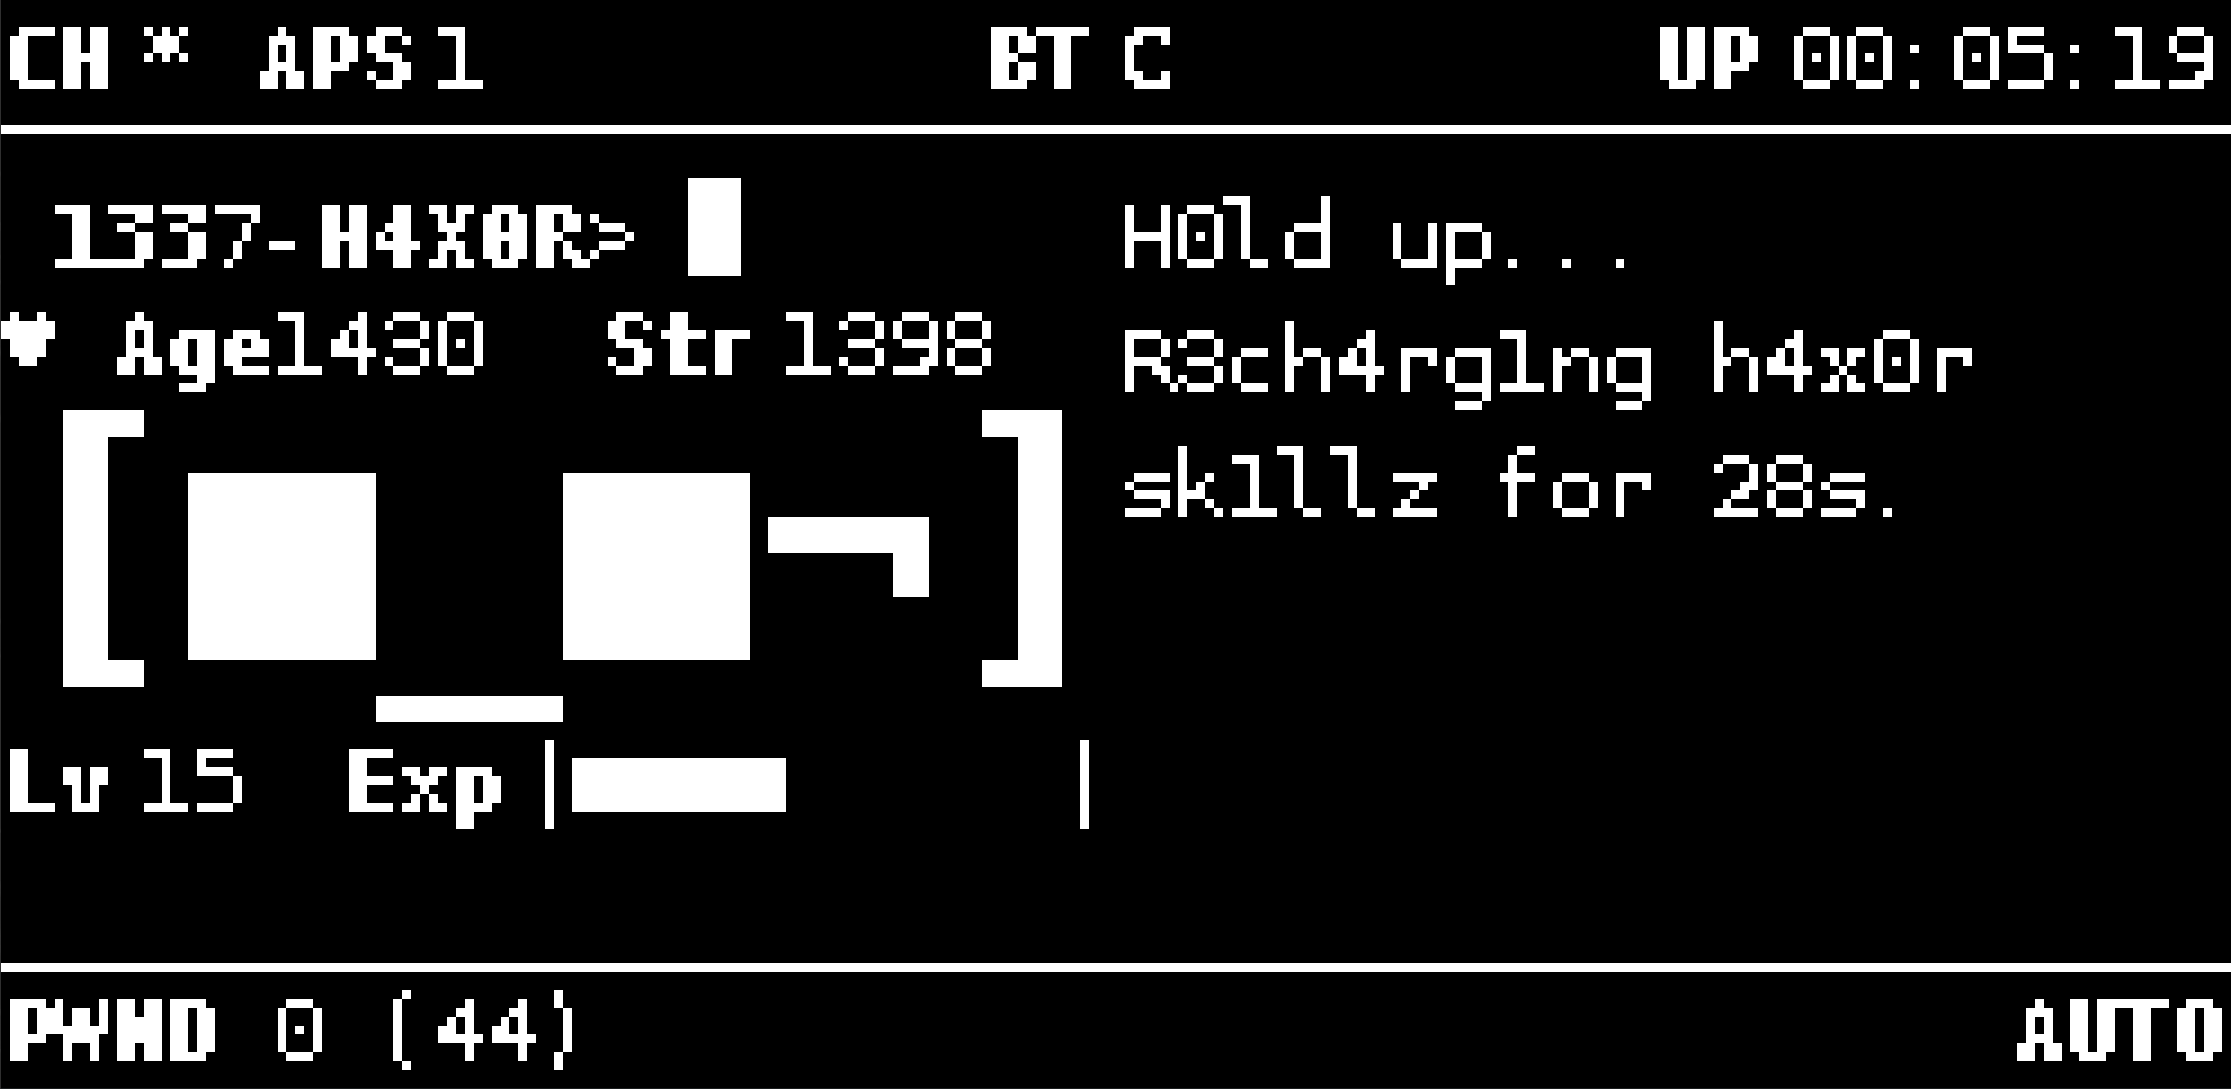
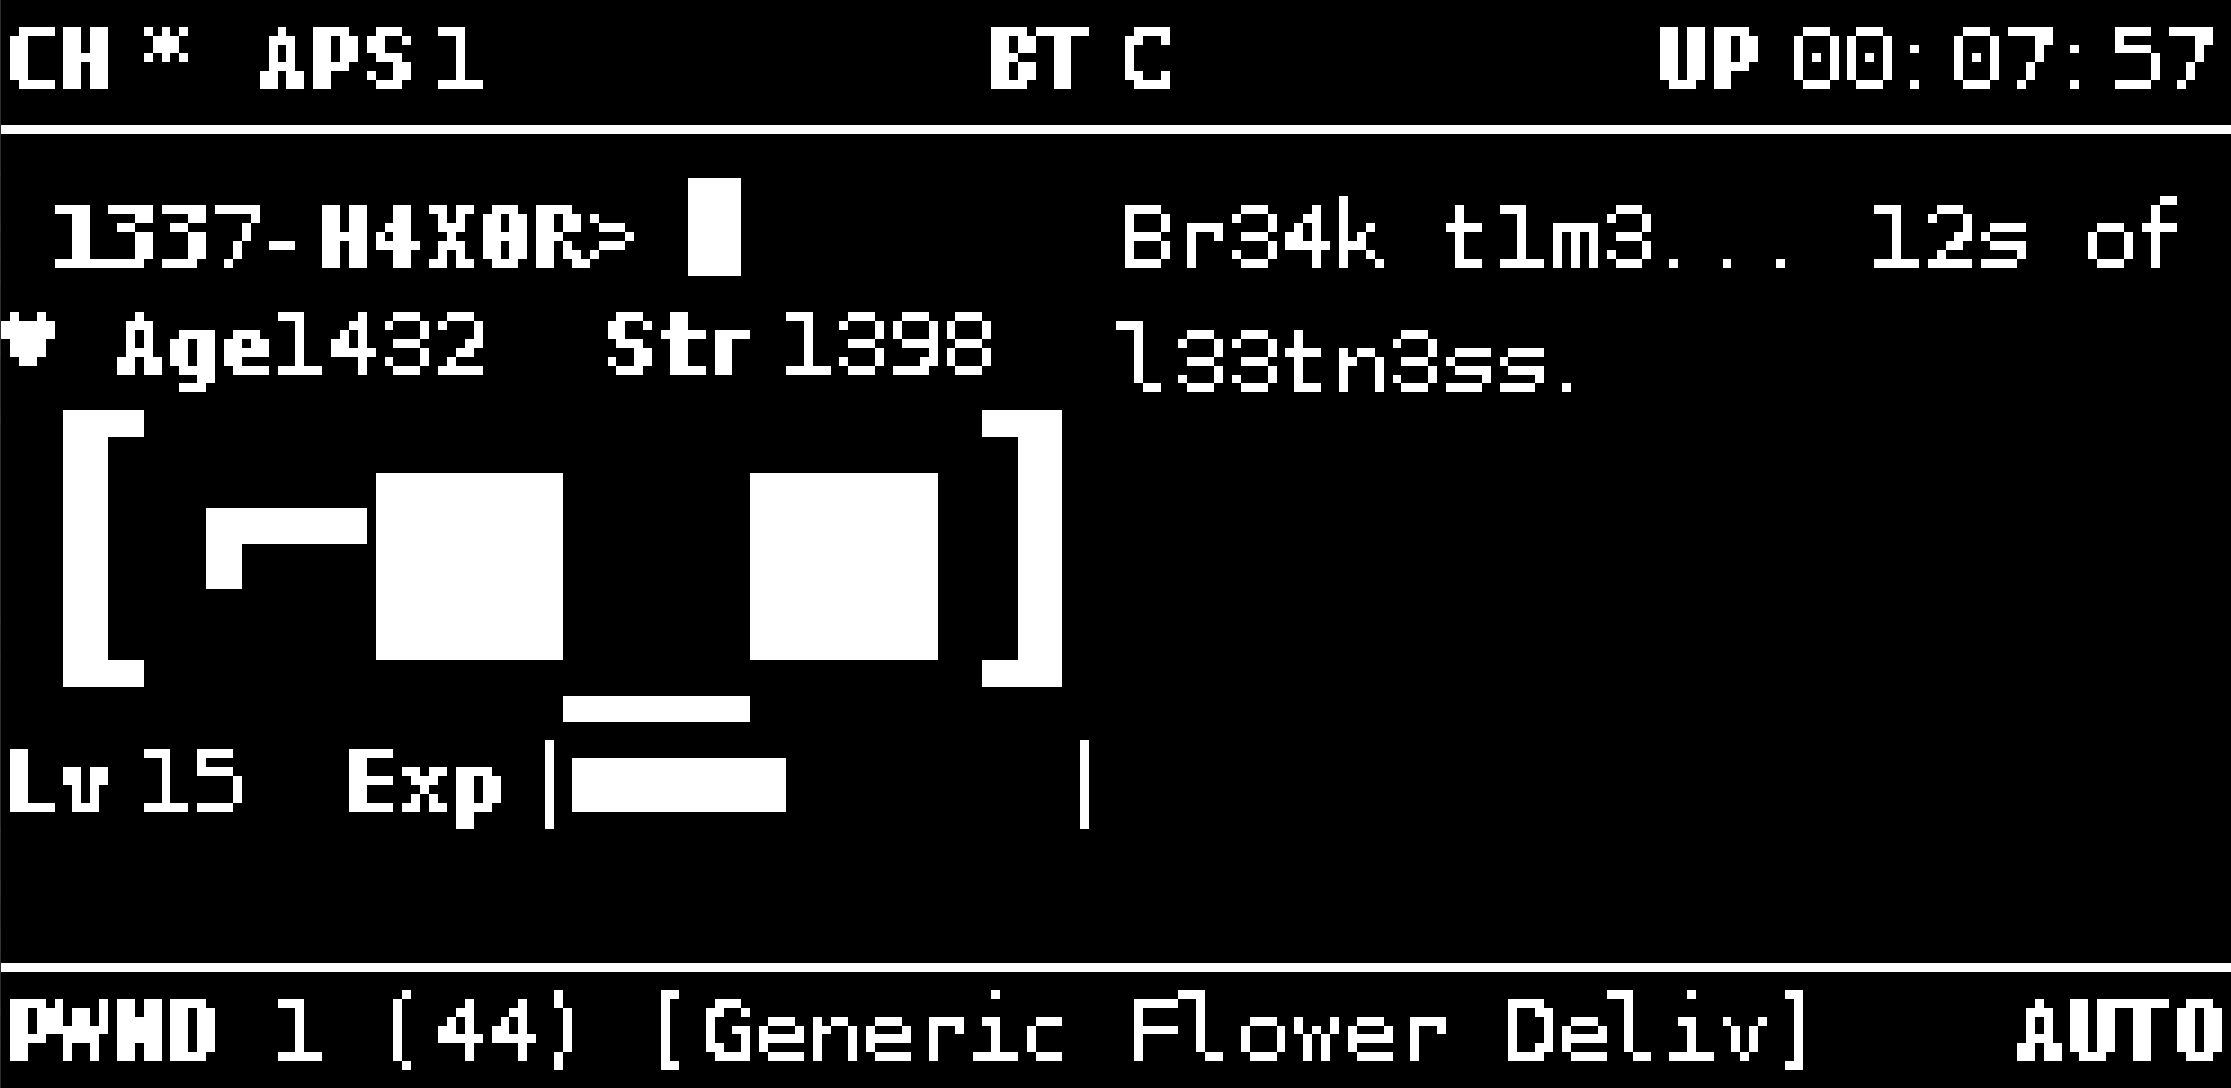
Edit main readme

diff --git a/README.md b/README.md
@@ -39,7 +39,9 @@ I would advise against looking inside the `voice.py` file, I've tried to add lot
 | Name                                                                           | Screenshot                                                                                                      | Description                                                                                                 |
 |--------------------------------------------------------------------------------|-----------------------------------------------------------------------------------------------------------------|-------------------------------------------------------------------------------------------------------------|
 | [Harold](https://github.com/TheJustinCrow/PwnPersonalities/tree/main/Harold)   | <img src="https://github.com/TheJustinCrow/PwnPersonalities/raw/main/media/Harold/HaroldMANU.png" width="250"/> | (⌐■_■) Wise, laid-back, and a hint of sarcasm. Imagine a seasoned friend with a virtual twinkle in his eye. |
+| [H4X0R](https://github.com/TheJustinCrow/PwnPersonalities/tree/main/H4X0R)     | <img src="https://github.com/TheJustinCrow/PwnPersonalities/raw/main/media/H4X0R/H4X0R2.png" width="250"/>      | [⌐■∇■] 1t'z 3x4ct1y wh4t y0u th1nk! H4ck th3 w0rld!!! [1337](https://en.wikipedia.org/wiki/Leet)            |
 | [Default](https://github.com/TheJustinCrow/PwnPersonalities/tree/main/Default) | <img src="https://github.com/TheJustinCrow/PwnPersonalities/raw/main/media/Default/Default.png" width="250"/>   | This is the default faceset and voice for your Pwnagotchi.                                                  |
+
 
 ## Contributions
 Contributions are always welcome! Feel free to contribute additional personalities (or suggest changes to current ones) by submitting pull requests. 
